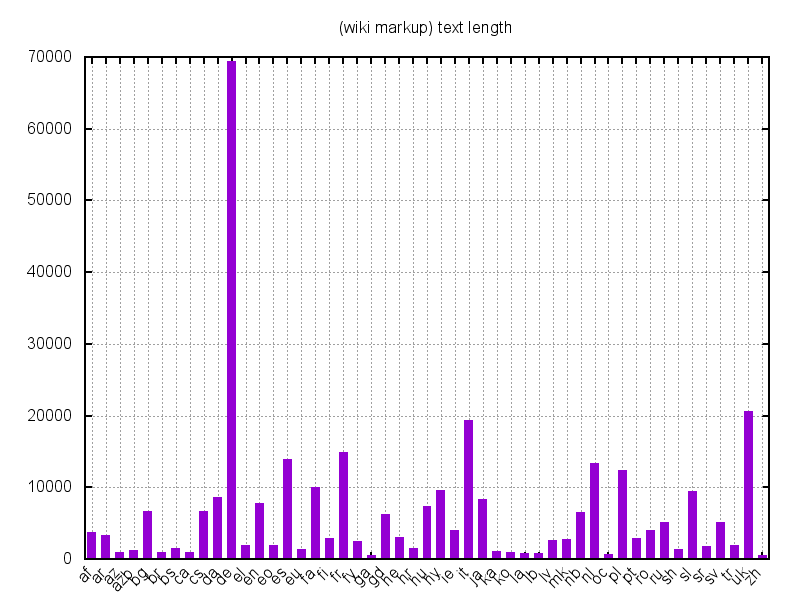
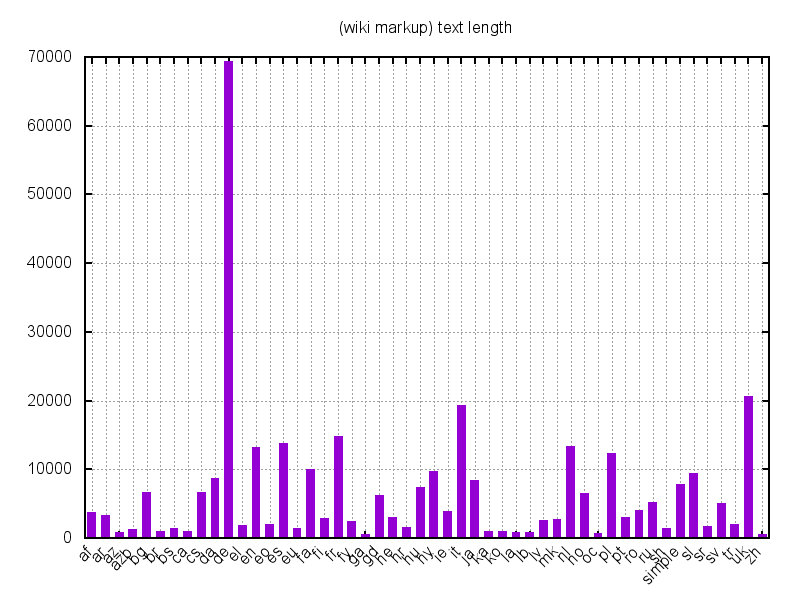
+firstrev

diff --git a/wiki.py b/wiki.py
@@ -9,6 +9,9 @@
 # Author: rja
 #
 # Changes:
+# 2019-05-19 (rja)
+# - fixed problem with missing English version
+# - added option --file
 # 2019-05-14 (rja)
 # - initial version
 
@@ -18,7 +21,7 @@ import collections
 import sys
 import argparse
 
-version = "0.0.2"
+version = "0.0.3"
 
 # returns the following page stats:
 # - length = number of characters
@@ -84,6 +87,7 @@ if __name__ == '__main__':
     parser.add_argument('-l', '--languages', type=str, metavar="ARTICLE", help='stats for articles versions in all available languages')
     parser.add_argument('-c', '--category', type=str, metavar="CATEGORY", help='stats for articles of a category')
     parser.add_argument('-s', '--separator', type=str, metavar="SEP", help='output column separator', default='\t')
+    parser.add_argument('-f', '--file', type=argparse.FileType('r', encoding='utf-8'), metavar="FILE", help='file to use as input')
     parser.add_argument('-t', '--test', type=str, metavar="ARTICLE", help='test article')
     parser.add_argument('-v', '--version', action="version", version="%(prog)s " + version)
     args = parser.parse_args()
@@ -101,41 +105,72 @@ if __name__ == '__main__':
 
         for i, a in enumerate(page.articles(namespaces = [0])):
             stats = get_page_stats(a)
-            # FIXME: a.title does not work well
-            print_stats(i, a.title, stats, args.separator)
+            print_stats(i, a.title(), stats, args.separator)
 
     if args.languages:
-        # Given the (English) name of an article, extract statistics
+        # Given the (German) name of an article, extract statistics
         # for all available language versions.
         #
-        # FIXME: We start with the English Wikipedia, since in the
-        # German Wikipedia, "en" and "simple" are both abbreviated
-        # "en".
-        site = pywikibot.Site("en", "wikipedia")
+        site = pywikibot.Site("de", "wikipedia")
         page = pywikibot.Page(site, args.languages)
 
-        # FIXME: For some reason, queried site itself is missing :-(
-        sitestats = {site.lang : get_page_stats(page)}
+        # FIXME: queried language itself is missing :-(
+        sitestats = {site.code : get_page_stats(page)}
 
         # get stats for other sites
         for langlink in page.langlinks():
-            sitestats[langlink.site.lang] = get_page_stats(pywikibot.Page(langlink.site, langlink.title))
+            # we are using site.code, since site.lang can be the same
+            # for different wikis (e.g., wikipedia:en and
+            # wikipedia:simple both have "en" as site.lang)
+            sitestats[langlink.site.code] = get_page_stats(pywikibot.Page(langlink.site, langlink.title))
 
         # print stats
         for i, lang in enumerate(sorted(sitestats)):
             print_stats(i, lang, sitestats[lang], args.separator)
 
+    if args.file:
+        # given a file with (currently) three columns:
+        # http://www.wikidata.org/entity/Q34787   Friedrich Engels        168
+        # print statistics for the entity in column two from the German Wikipedia
+
+        site = pywikibot.Site("de", "wikipedia")
+
+        i = 0
+        for line in args.file:
+            s, desc, linkcount = line.strip().split('\t')
+            # skip first line, if it is header
+            if not (s == "s" and desc == "desc"):
+                # get stats for "desc" (= title of Wikipedia page)
+                page = pywikibot.Page(site, desc)
+                
+                print_stats(i, desc, get_page_stats(page), args.separator)
+                i = i + 1
+        
     if args.test:
         # test Wikidata
         site = pywikibot.Site("de", "wikipedia")
         page = pywikibot.Page(site, args.test)
 
-        # datetime of first revision
-        for r in page.revisions():
-            print(r.revid, r.timestamp)
+        # test .title()
+        site = pywikibot.Site("de", "wikipedia")
+        page = pywikibot.Category(site, args.test)
+
+        # check, whether this really is a category page
+        if not page.is_categorypage():
+            sys.exit(args.category + " is not a category page")
+
+        for i, a in enumerate(page.articles(namespaces = [0])):
+            # FIXME: a.title does not work well
+            print(i, a.title())
+
+        # test dbName()
+        if False:
+            print("--- starting with de")
+            for langlink in page.langlinks():
+                print(langlink.site, langlink.site.lang, langlink.site.dbName(), langlink.site.code)
 
 
-        # Wikidata
+        # test Wikidata
         if False:
             data = page.data_item()
             claims = data.get()["claims"] # claims, labels, aliases, descriptions, sitelinks
